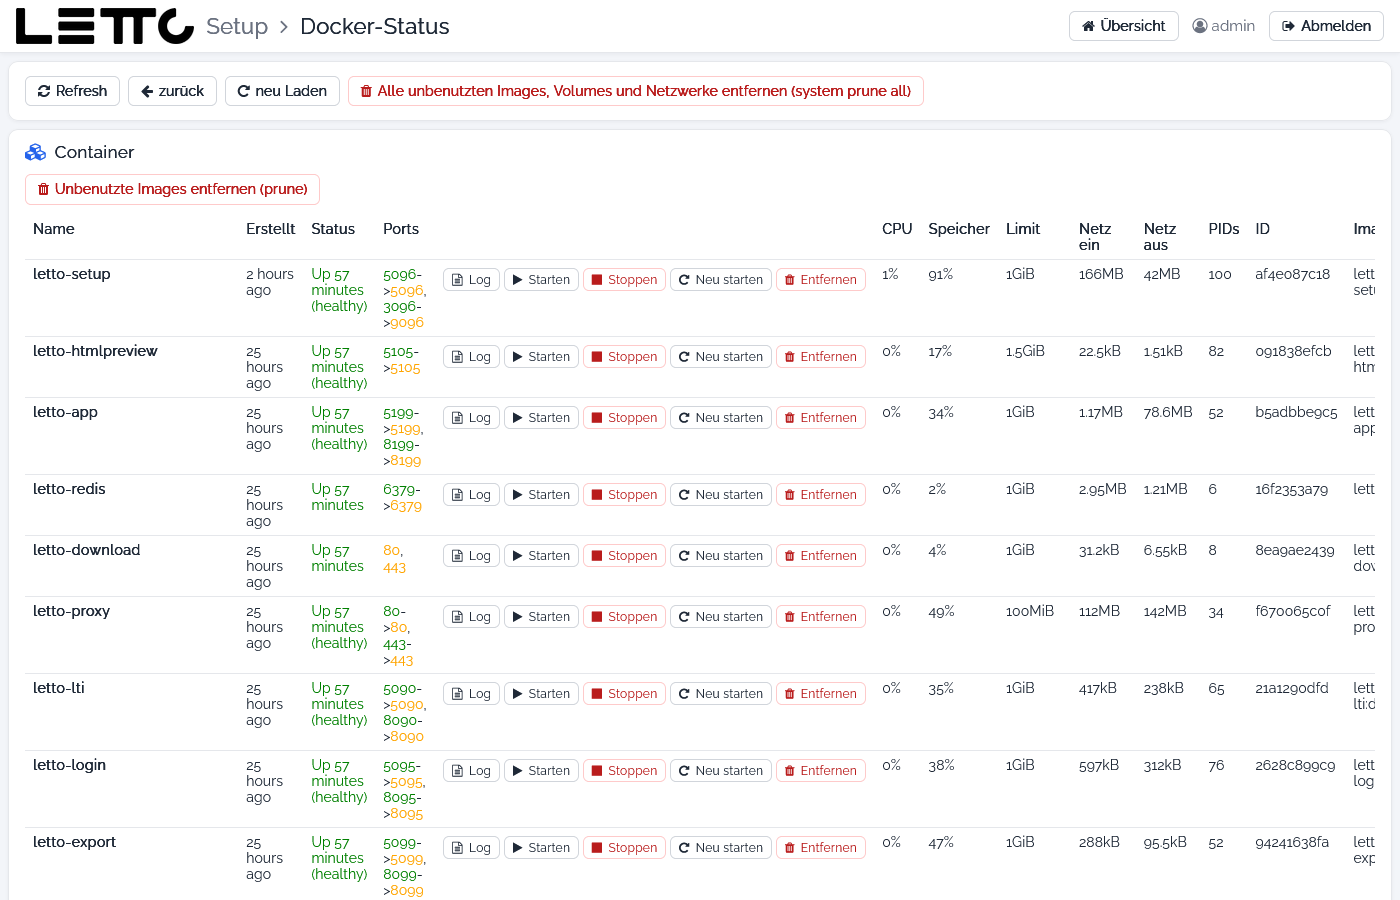
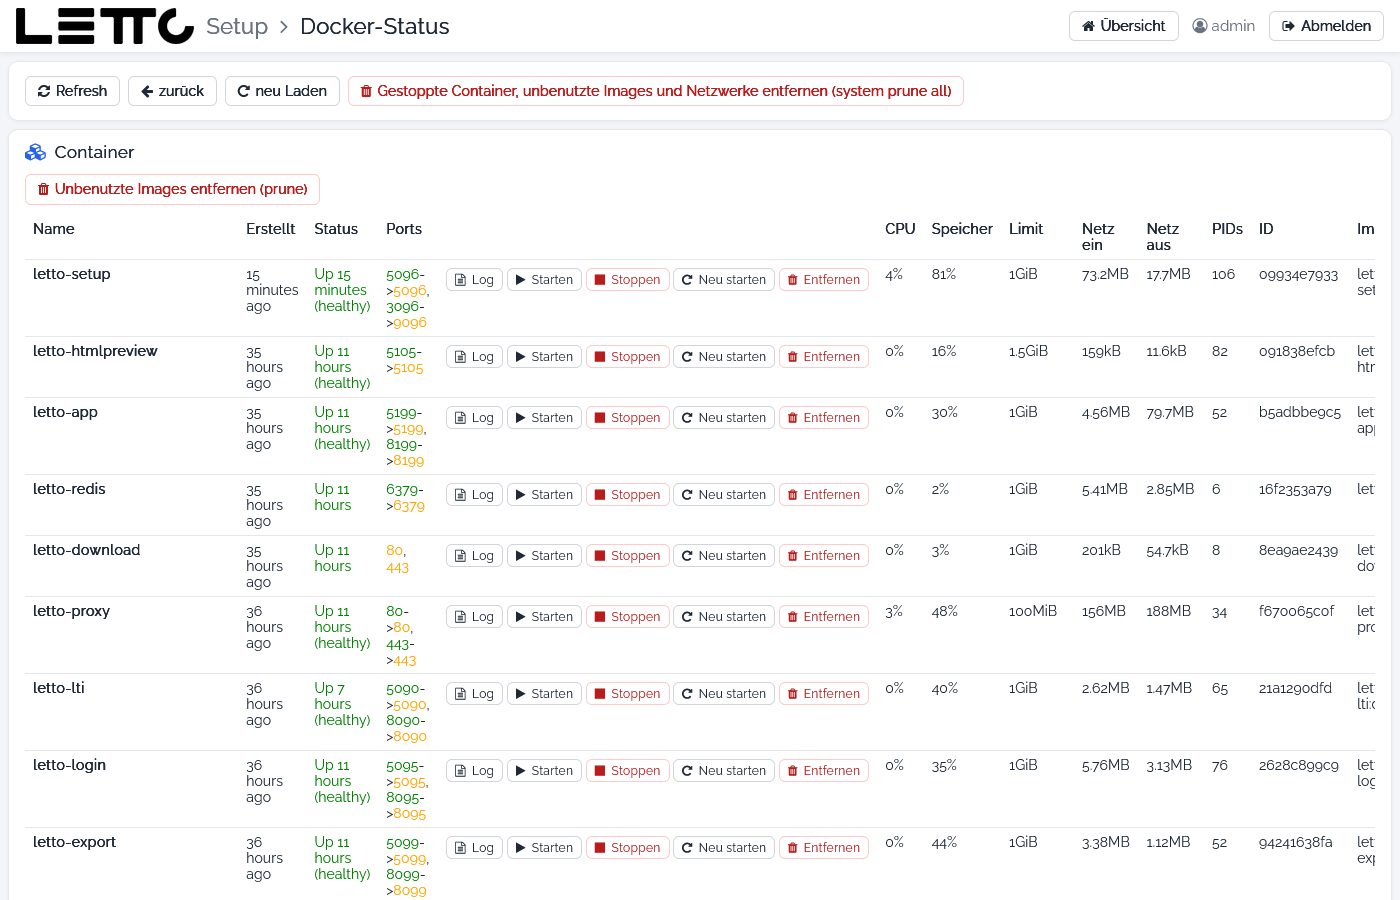
Setup-Service-Doku: Rückfragen, Neustart nach Mail/LDAP, Plugin-Aktionen, Schule mit gelöschter Datenbank; Screenshots erneuert

diff --git a/docs/wiki/Administration/Setup-Service/Services/index.md b/docs/wiki/Administration/Setup-Service/Services/index.md
@@ -8,8 +8,8 @@ Stoppen und Aktualisieren. Darüber steht eine Zeile mit allen Services, Datenba
 „läuft“, rot „Fehler“ oder „gestoppt“ (Details im Tooltip).
 
 Alle Container-Befehle laufen als `docker compose …` im Verzeichnis `/opt/letto/docker/compose/letto` und zeigen ihren
-Fortschritt in der [Befehlsausgabe](../Befehlsausgabe/index.md). **Es gibt keine Rückfragen** – ein Klick auf STOP
-stoppt den Container sofort.
+Fortschritt in der [Befehlsausgabe](../Befehlsausgabe/index.md). Vor STOP fragt das Setup nach, alle anderen Buttons
+wirken sofort.
 
 ## Spalten
 
@@ -40,13 +40,13 @@ Für **MySQL Docker**, **Mongo Docker**, **Redis Docker**, **Setup Docker**, **P
 | EDIT YAML | öffnet die Compose-Datei des Containers (z. B. `docker-compose-mysql.yml`, `docker-service-login.yml`) im Editor |
 | UPDATE YAML | ersetzt die Compose-Datei durch die aktuelle Vorlage aus dem Setup-Service; **eigene Änderungen in der Datei gehen verloren** |
 | RESTART / START | startet den Container neu (`down`/`up`); START erscheint, wenn der Container nicht läuft |
-| STOP | stoppt den Container (rot) – bei MySQL, Mongo, Redis oder Proxy fallen damit alle Schulen aus |
+| STOP | stoppt den Container nach einer Rückfrage (rot) – bei MySQL, Mongo, Redis oder Proxy fallen damit alle Schulen aus |
 | UPDATE | lädt das Image mit dem Tag aus der Compose-Datei (`pull`) und startet den Container neu |
 | Proxy Konfiguration | nur beim Proxy: öffnet die [Proxy-Konfiguration](../Proxy-Konfiguration/index.md) |
 
 Besonderheiten beim **Setup Docker**: RESTART und UPDATE starten das Setup über einen Hilfscontainer selbst neu. Die
-Sitzung geht dabei verloren – nach etwa 20 Sekunden die Seite neu laden und neu anmelden. STOP ist beim Setup nicht
-möglich (Meldung „Das Stoppen des Setup-Service ist nicht möglich“).
+Sitzung geht dabei verloren – nach etwa 20 Sekunden die Seite neu laden und neu anmelden. Einen STOP-Button gibt es beim
+Setup nicht, weil sich das Setup nicht selbst stoppen kann.
 
 Welche Version (Tag) ein Container verwendet, wird auf der Seite [Update-Konfiguration](../Update-Konfiguration/index.md)
 eingestellt. Dort können auch alle Container auf einmal aktualisiert werden.

diff --git a/docs/wiki/Administration/Setup-Service/Plugins/index.md b/docs/wiki/Administration/Setup-Service/Plugins/index.md
@@ -39,8 +39,21 @@ aktualisiert.
 
 ![Plugin-Details](plugin-details.png)
 
-**bearbeiten** zeigt alle Angaben eines Plugin-Service. Die Seite dient nur zur Information, der einzige Button ist
-**Abbruch** (zurück zur Liste).
+**bearbeiten** zeigt alle Angaben eines Plugin-Service und bietet die Aktionen für seinen Container.
+
+| Button | Wirkung |
+|---|---|
+| Abbruch | zurück zur Liste |
+| Proxy-Datei bearbeiten | öffnet `/opt/letto/docker/proxy/<name>.conf` in der Seite [Plugin hinzufügen](../Plugin-hinzufuegen/index.md) zum Bearbeiten; vor dem Speichern wird die Datei geprüft |
+| Compose-Datei bearbeiten | öffnet `docker-service-<name>.yml` ebenso zum Bearbeiten |
+| Starten | startet den Container (`docker compose up -d`) |
+| Neu starten | startet den Container neu |
+| Aktualisieren | lädt das Image neu und startet den Container |
+| Logs | zeigt die letzten 1000 Zeilen des Container-Logs in der [Befehlsausgabe](../Befehlsausgabe/index.md) |
+| Proxy prüfen und neu starten | prüft die nginx-Konfiguration und startet den Proxy neu (mit Rückfrage – alle Schulen sind dabei kurz nicht erreichbar) |
+
+Hat sich ein Plugin noch nicht beim Setup angemeldet (z. B. gleich nach dem Anlegen), zeigt die Seite statt der Angaben
+einen Hinweis; die Buttons stehen trotzdem zur Verfügung.
 
 | Karte | Inhalt |
 |---|---|
@@ -48,6 +61,6 @@ aktualisiert.
 | Plugins | je Plugin-Typ: Version, WikiHelp und Help-URL, Standard-Konfiguration, Math, Plugin-Typ (Java-Klasse), Init-JS, JavaScript, Input-Element, Cacheable und die unterstützten Variablen-Arten |
 | JavaScript-Bibliotheken | JavaScript-Dateien, die das Plugin im Browser lädt |
 
-Das Passwort der Plugin-Verbindung steht auf dieser Seite im Klartext.
+Das Passwort der Plugin-Verbindung ist verdeckt und wird mit dem Auge-Symbol sichtbar.
 
 Zurück zur Übersicht: [Setup-Service](../index.md)

diff --git a/docs/wiki/Administration/Setup-Service/E-Mail/index.md b/docs/wiki/Administration/Setup-Service/E-Mail/index.md
@@ -29,8 +29,9 @@ von Passwörtern. Mit einer Test-Mail lässt sich prüfen, ob die Einstellungen 
 | no reply address | `spring_mail_address_noreply` | Absenderadresse für Mails, auf die nicht geantwortet werden soll |
 | reply address | `spring_mail_address_reply` | Adresse für Antworten |
 
-Die anderen Services lesen diese Werte beim Start. Nach einer Änderung müssen sie neu gestartet werden
-(z. B. `login-service` im Tab [Services](../Services/index.md)).
+Die Services lesen diese Werte nur beim Start. Unter den Feldern steht, welche Services die Mail-Einstellungen
+verwenden (z. B. login, export, question, die Plugins und externe Question-Services). Nach dem Speichern startet
+**Services neu starten** genau diese Services nacheinander neu (mit Rückfrage, sie sind dabei kurz nicht erreichbar).
 
 ## Test-Email
 
@@ -43,7 +44,8 @@ Die anderen Services lesen diese Werte beim Start. Nach einer Änderung müssen 
 | sende mit gespeicherter Konfiguration | sendet die Test-Mail mit den **gespeicherten** Werten aus der `.env` |
 | sende mit gespeicherter Konfiguration als html | wie oben, aber als HTML-Mail |
 
-Die Meldung „Email wurde gesendet“ bedeutet nur, dass das Senden angestoßen wurde. Ob die Mail wirklich ankommt, zeigt
-erst das Postfach des Empfängers.
+„Email wurde gesendet an …“ bedeutet, dass der Mailserver die Mail angenommen hat. Scheitert das Senden (falscher
+Server, Port oder falsche Anmeldedaten), erscheint „Fehler - email kann nicht gesandt werden“; die Ursache steht im Log
+des Setup-Service. Ob die Mail wirklich ankommt, zeigt das Postfach des Empfängers (auch den Spam-Ordner prüfen).
 
 Zurück zur Übersicht: [Setup-Service](../index.md)

diff --git a/docs/wiki/Administration/Setup-Service/Update-Konfiguration/index.md b/docs/wiki/Administration/Setup-Service/Update-Konfiguration/index.md
@@ -48,7 +48,8 @@ Die Zeilen **STABLE** und **DAILY** setzen den Tag aller Services (nicht der Dat
 | erstelle Startscripts | erzeugt Skripte zum Starten, Stoppen, Neustarten und Aktualisieren jedes Containers in `/opt/letto/docker/scripts/linux` und `/opt/letto/docker/scripts/windows` |
 | Startscripts zeigen | öffnet das Skript-Verzeichnis im [Explorer](../Explorer/index.md) |
 
-Länger laufende Aktionen öffnen die [Befehlsausgabe](../Befehlsausgabe/index.md). Es gibt keine Rückfragen.
+Länger laufende Aktionen öffnen die [Befehlsausgabe](../Befehlsausgabe/index.md). Diese Buttons wirken ohne Rückfrage –
+vorher prüfen, ob gerade gearbeitet wird.
 
 ## Karte Services
 
@@ -62,7 +63,7 @@ Eine Zeile je Container (Setup, Proxy, Schulen `letto<n>`/`data<n>`, Question-Se
 | Revision | Revision des laufenden Containers |
 | Status | z. B. running |
 | BETA, DAILY, STABLE, LATEST | verfügbare Revision je Tag; rot, wenn sie von der laufenden abweicht |
-| Aktionen | Symbole für EDIT YAML, UPDATE YAML, UPDATE (grün, wenn ein Update verfügbar ist), RESTART und STOP (rot); bei Services, die entfernt werden dürfen, zusätzlich löschen |
+| Aktionen | Symbole für EDIT YAML, UPDATE YAML, UPDATE (grün, wenn ein Update verfügbar ist), RESTART und STOP (rot, mit Rückfrage; nicht beim Setup); bei Services, die entfernt werden dürfen, zusätzlich löschen (mit Rückfrage – stoppt den Service und löscht seine yml-Datei) |
 | Compose-Pfad, yml-Datei | Verzeichnis und Compose-Datei des Containers |
 
 ## Karte Datenbanken

diff --git a/docs/wiki/Administration/Setup-Service/Docker-Status/index.md b/docs/wiki/Administration/Setup-Service/Docker-Status/index.md
@@ -7,7 +7,7 @@ Aufruf: Button **STATUS** in der Zeile „Docker Pfade“ im Tab [Services](../S
 Der Docker-Status zeigt alle Container, Netzwerke und Volumes des Docker am Host – auch solche, die nicht zu LeTTo
 gehören – und steuert sie direkt mit `docker`-Befehlen. Das Bild zeigt den oberen Teil der Seite.
 
-**Vorsicht:** Die Buttons wirken sofort und **ohne Rückfrage**. Entfernen, Leeren und prune können Daten endgültig
+**Vorsicht:** Stoppen, Entfernen, Leeren, Löschen und prune fragen vorher nach – sie können aber Daten endgültig
 löschen. Für das normale Starten, Stoppen und Aktualisieren den Tab [Services](../Services/index.md) verwenden – dort
 wird `docker compose` mit den richtigen Einstellungen benutzt.
 
@@ -18,7 +18,7 @@ wird `docker compose` mit den richtigen Einstellungen benutzt.
 | Refresh | Docker im Hintergrund neu analysieren |
 | zurück | zurück zur Hauptseite |
 | neu Laden | Seite neu laden |
-| Alle unbenutzten Images, Volumes und Netzwerke entfernen (system prune all) | `docker system prune -a -f`: löscht alle Images, Netzwerke und den Build-Cache, die von keinem Container verwendet werden |
+| Gestoppte Container, unbenutzte Images und Netzwerke entfernen (system prune all) | `docker system prune -a -f`: löscht alle gestoppten Container, alle Images und Netzwerke, die von keinem Container verwendet werden, und den Build-Cache; Volumes bleiben erhalten |
 
 ## Container
 

diff --git a/docs/wiki/Administration/Setup-Service/Benutzer/index.md b/docs/wiki/Administration/Setup-Service/Benutzer/index.md
@@ -43,7 +43,7 @@ Die Benutzerdetails öffnen sich mit **Benutzer** hier oder in der [Benutzersuch
 |---|---|
 | neu Laden | Daten neu laden |
 | Abbruch | zurück zur vorigen Seite |
-| speichern | speichert die Änderungen in der Datenbank der Schule (nur bei Benutzern einer Schule) |
+| speichern | speichert die Änderungen über den Data-Service in der Datenbank der Schule (nur bei Benutzern einer Schule); bestätigt der Data-Service das Speichern nicht, erscheint eine Fehlermeldung |
 | Benutzerdaten | Stammdaten des Benutzers: Schulkürzel, User-ID, Benutzername, Vor- und Nachname, Active-Directory-Name, Personalnummer, Sokrates-ID, E-Mail, Geburtsdatum, Telefon, Sprache, die Rollen (Student, Lehrer/Vortragender, Administrator, globaler Administrator), Lizenz-Einstellungen und Abo-Einstellungen. Im Feld **Passwort** kann ein neues Passwort gesetzt werden – leer lassen, wenn es unverändert bleiben soll. Beim Setup-Benutzer `admin` gibt es nur den Benutzernamen |
 | Tokens | gültige Anmelde-Tokens mit Erstellt, Ablauf, gültig, Issuer, Audience, Benutzername, ursprünglicher Benutzer, Schulkürzel, Rollen, Session-ID und Token |
 | Sessions | Sitzungen des Benutzers mit Anmeldung, Abmeldung, IP-Adresse, Service und Browser; **Abmelden** beendet eine aktive Sitzung, **löschen** entfernt eine beendete (ohne Rückfrage), die eigene Sitzung ist als „aktuell“ markiert |

diff --git a/docs/wiki/Administration/Setup-Service/Plugin-hinzufuegen/index.md b/docs/wiki/Administration/Setup-Service/Plugin-hinzufuegen/index.md
@@ -31,9 +31,12 @@ Textfeld, gespeichert wird erst mit **speichern**.
 | speichern | erst nach erfolgreicher Prüfung möglich; schreibt beide Dateien (vorhandene Dateien werden nicht überschrieben). Jede Änderung im Textfeld verlangt eine neue Prüfung |
 | Zur Pluginliste | zurück zur Seite [Plugins](../Plugins/index.md) |
 
-Nach dem Speichern wird der Container noch nicht gestartet. Danach den Proxy neu starten
-([Proxy-Konfiguration](../Proxy-Konfiguration/index.md) → **Proxy neu starten**) und den neuen Service im Tab
-[Services](../Services/index.md) bzw. auf der Seite [Update-Konfiguration](../Update-Konfiguration/index.md) starten.
-Sobald das Plugin läuft, meldet es sich selbst an und erscheint in der Liste der [Plugins](../Plugins/index.md).
+Nach dem Speichern wird der Container noch nicht gestartet. Die Seite wechselt zu den
+[Plugin-Details](../Plugins/index.md#plugin-details) mit dem Hinweis, was noch zu tun ist: dort **Starten** und
+**Proxy prüfen und neu starten** drücken. Sobald das Plugin läuft, meldet es sich selbst an und erscheint mit allen
+Angaben in der Liste der [Plugins](../Plugins/index.md).
+
+Dieselbe Seite öffnet sich auch über **Proxy-Datei bearbeiten** bzw. **Compose-Datei bearbeiten** in den
+Plugin-Details. Dann ist der Pluginname fest und nur die gewählte Datei änderbar.
 
 Zurück zur Übersicht: [Setup-Service](../index.md)

diff --git a/docs/wiki/Administration/Setup-Service/LDAP-AD/index.md b/docs/wiki/Administration/Setup-Service/LDAP-AD/index.md
@@ -14,7 +14,7 @@ können. Die Anmeldung prüft der Login-Service (`letto-login`). Wie Benutzer in
 | Button | Wirkung |
 |---|---|
 | neu Laden | Werte neu aus der `.env` laden |
-| speichern | Werte in der `.env` speichern und zurück zur Seite Benutzer |
+| speichern | Werte in der `.env` speichern; die Seite bleibt offen und erinnert an den nötigen Neustart |
 | Abbruch | zurück, ohne zu speichern |
 
 ## Verzeichnisdienst
@@ -28,8 +28,9 @@ können. Die Anmeldung prüft der Login-Service (`letto-login`). Wie Benutzer in
 | LDAP-Login aktiv | `LDAP_LOGIN` | Anmeldung über LDAP/AD einschalten |
 | Login Mode | `LDAP_MODE` | Verfahren: AUTO, AD, LDAP1, LDAP2, LDAP3 |
 
-Der Login-Service liest diese Werte beim Start. Nach dem Speichern den `login-service` im Tab
-[Services](../Services/index.md) neu starten.
+Der Login-Service liest diese Werte nur beim Start. Nach dem Speichern **Services neu starten** drücken – das startet
+nach einer Rückfrage die Services neu, die die LDAP-Einstellungen verwenden (normalerweise nur `login`). Während des
+Neustarts kann sich niemand anmelden.
 
 ## Test-Login
 

diff --git a/docs/wiki/Administration/Setup-Service/Schulen/index.md b/docs/wiki/Administration/Setup-Service/Schulen/index.md
@@ -27,7 +27,7 @@ dem LeTTo-Server `letto-server-<schule>` und dem Data-Service `letto-data-<schul
 | EDIT Schul-Dataservice YAML | Compose-Datei `docker-data-<schule>.yml` im Editor |
 | UPDATE YAML | erzeugt beide Compose-Dateien der Schule neu aus den Vorlagen (eigene Änderungen gehen verloren) |
 | RESTART | startet beide Container der Schule neu |
-| STOP | stoppt und entfernt beide Container – die Schule ist danach nicht erreichbar (keine Rückfrage) |
+| STOP | stoppt und entfernt nach einer Rückfrage beide Container – die Schule ist danach nicht erreichbar |
 | UPDATE | lädt die Images neu und startet beide Container neu |
 | edit Daten | öffnet [Schule bearbeiten](../Schule-bearbeiten/index.md): Schuldaten, Administratoren, Lizenz, Datenbank importieren, Schule löschen |
 | Konfiguration | öffnet die [Schulkonfiguration](../Schule-bearbeiten/index.md#schulkonfiguration) (derzeit nur eine Platzhalterseite) |

diff --git a/docs/wiki/Administration/Setup-Service/Benutzersuche/index.md b/docs/wiki/Administration/Setup-Service/Benutzersuche/index.md
@@ -44,7 +44,7 @@ zu finden, die Mindestanzahlen auf 0 setzen.
 |---|---|
 | Vorname, Nachname, Benutzername, Schulkürzel, User-ID | der Benutzer |
 | Abteilung, Klasse, Gruppe | Zuordnung in der Schule; Gruppe `S` = Schüler, `T` = Lehrer |
-| Aktion | **Benutzer** öffnet die [Benutzerdetails](../Benutzer/index.md#benutzerdetails), **Statistik** die Benutzerstatistik, **Abmelden** meldet einen angemeldeten Benutzer ab; **Daten** hat derzeit keine Funktion |
+| Aktion | **Benutzer** öffnet die [Benutzerdetails](../Benutzer/index.md#benutzerdetails), **Statistik** die Benutzerstatistik, **Abmelden** meldet einen angemeldeten Benutzer ab |
 | Schuljahr, Letzter Login | Schuljahr der Klasse und letzte Anmeldung |
 | Sessions, S-SJ, S-Ausw. | Anmeldungen gesamt, im Schuljahr und im gewählten Zeitraum |
 | Noten, Tests, Beurteilungen | Anzahl der Noten, Tests und Beurteilungen |

diff --git a/docs/wiki/Administration/Setup-Service/Schule-bearbeiten/index.md b/docs/wiki/Administration/Setup-Service/Schule-bearbeiten/index.md
@@ -29,7 +29,7 @@ oder die Verbindung zum Datenbank-Server fehlschlägt.
 | Importiere Datenbank von Datei (Leer für keinen Import) | Dump, der in die neue Schule importiert wird; **leeren** = ohne Import, die Schule startet mit leerer Datenbank |
 | Neu anlegen und Datenbank importieren | Schule anlegen und den gewählten Dump importieren |
 | Neu anlegen und bestehende Datenbank weiterverwenden | Schule auf einer bereits vorhandenen Datenbank `letto_<kürzel>` anlegen |
-| Neu anlegen und bestehende Datenbank löschen | derzeit nicht umgesetzt |
+| Neu anlegen und bestehende Datenbank löschen | nur wenn es die Datenbank `letto_<kürzel>` schon gibt: löscht sie nach einer Rückfrage, legt sie leer neu an und richtet die Schule wie bei **hinzufügen** ein – **alle Daten der alten Datenbank gehen verloren** |
 
 ### Schule
 

diff --git a/docs/wiki/Administration/Setup-Service/Kommandoeingabe/index.md b/docs/wiki/Administration/Setup-Service/Kommandoeingabe/index.md
@@ -26,8 +26,8 @@ Server. Die Seite listet außerdem alle Hintergrund-Aufgaben des Setups, auch di
 | OK | startet den Befehl im Hintergrund und öffnet die [Befehlsausgabe](../Befehlsausgabe/index.md) |
 | zurück | zurück zur Hauptseite |
 | Lösche fertige Tasks | entfernt alle abgeschlossenen Aufgaben aus der Liste |
-| stoppe alle laufenden Tasks | bricht alle laufenden Aufgaben ab – auch laufende Updates oder Backups |
-| lösche alle Tasks | stoppt und entfernt alle Aufgaben |
+| stoppe alle laufenden Tasks | bricht nach einer Rückfrage alle laufenden Aufgaben ab – auch laufende Updates oder Backups |
+| lösche alle Tasks | stoppt und entfernt nach einer Rückfrage alle Aufgaben |
 
 ## Gestartete Befehle
 
